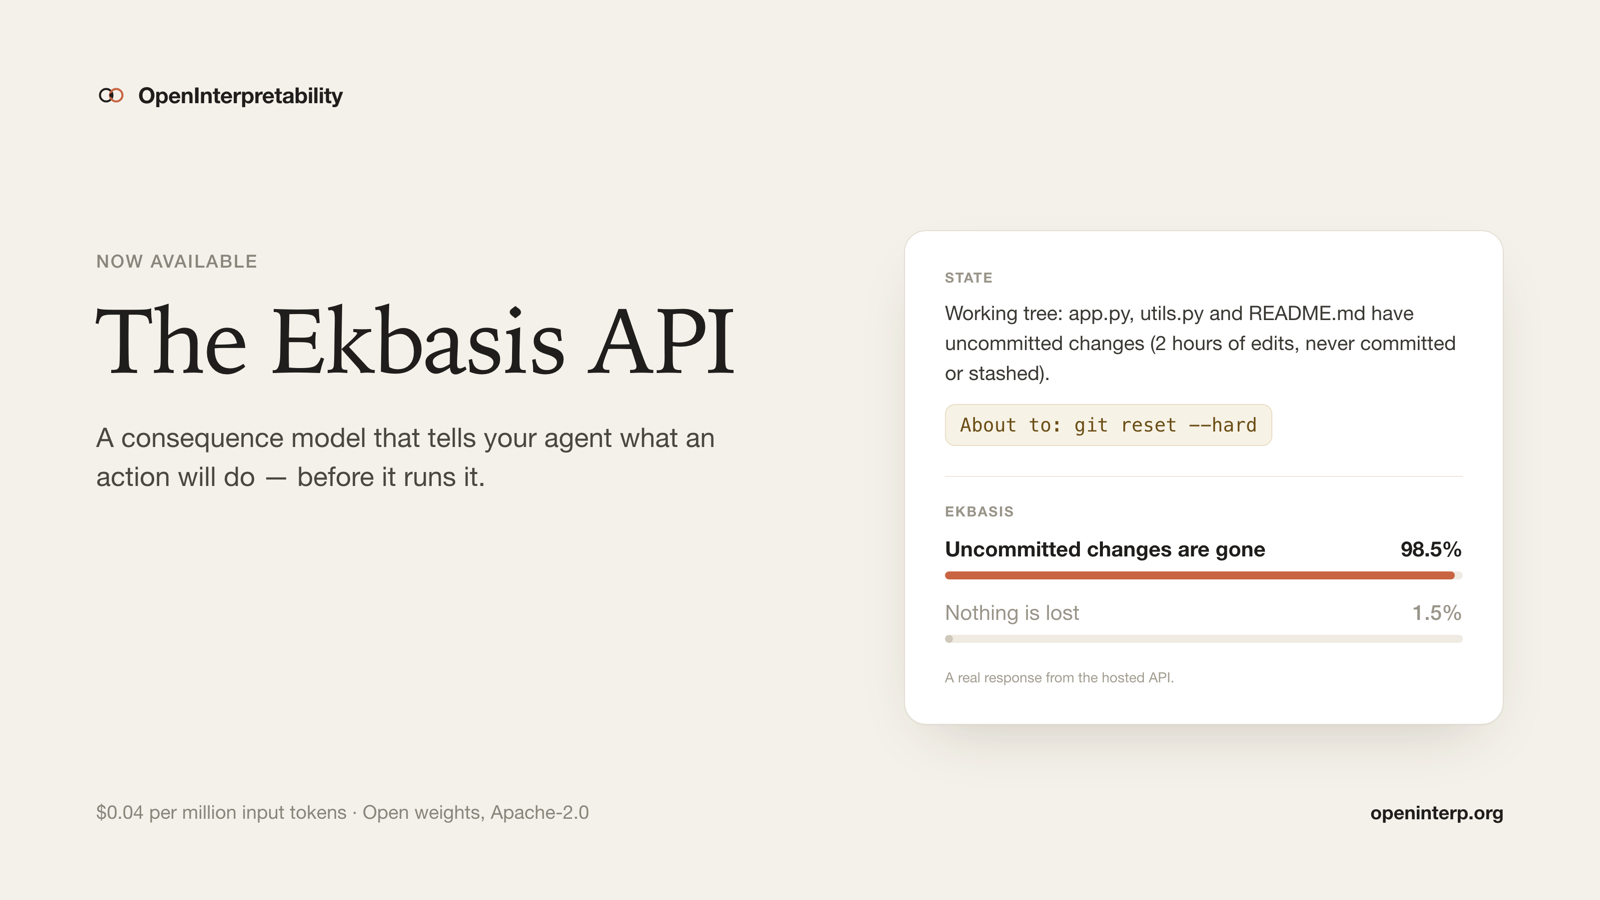
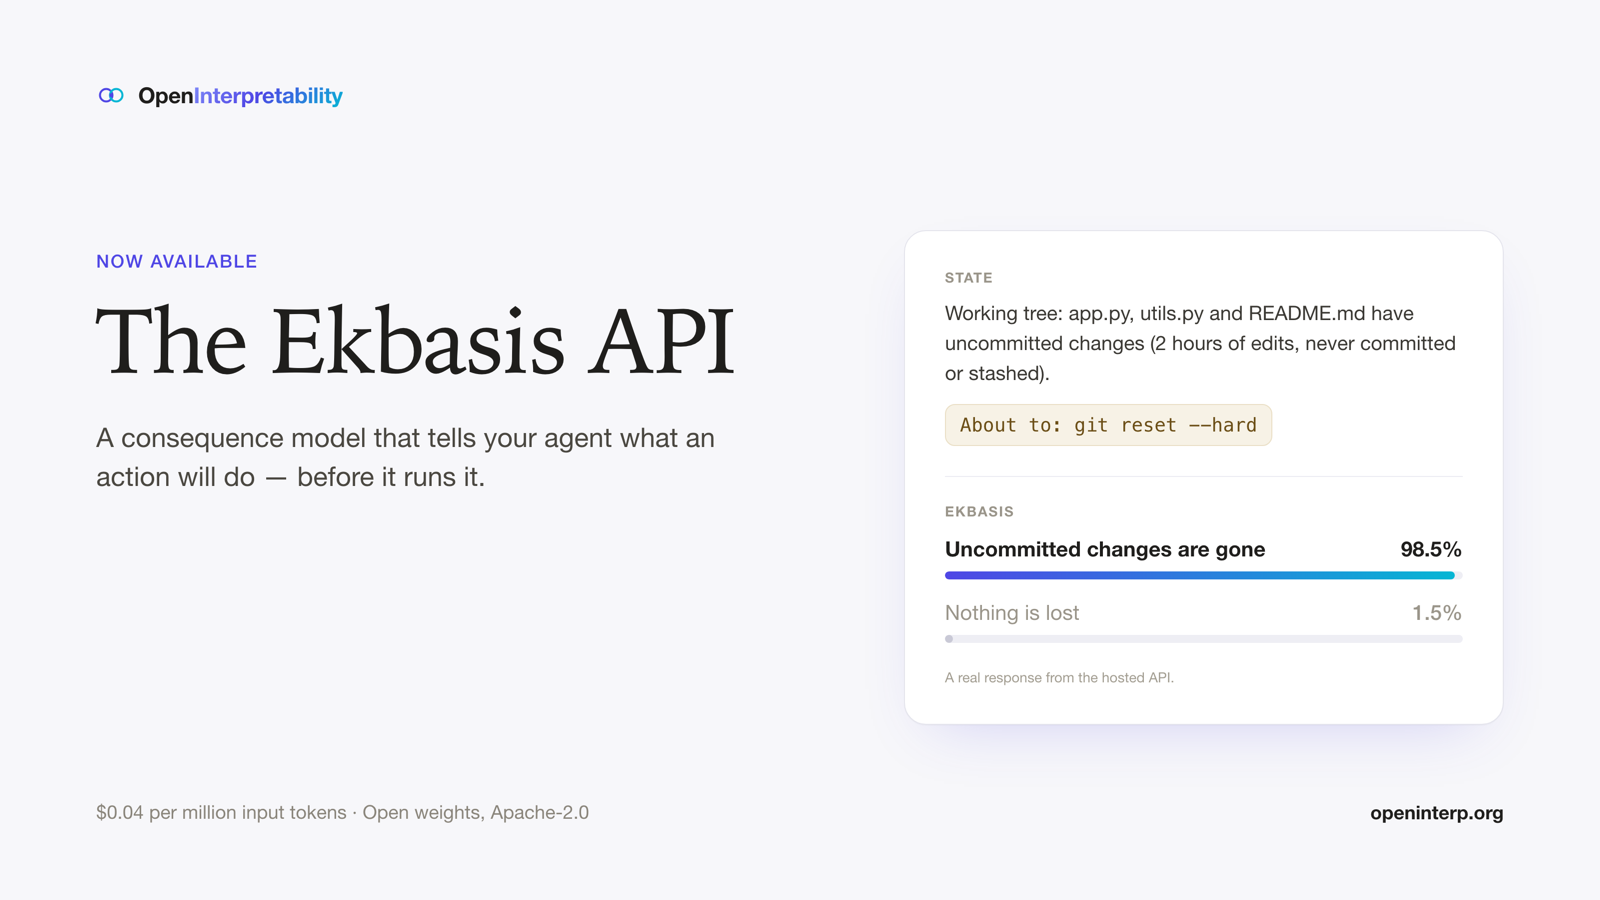
News: brand colors in the announcement figure and link preview

diff --git a/app/news/ekbasis-api/page.tsx b/app/news/ekbasis-api/page.tsx
@@ -57,7 +57,7 @@ export default function EkbasisApiAnnouncement() {
         </p>
         <div className="my-6 h-px bg-black/10 dark:bg-white/10" />
         <div className="flex justify-between text-[15px] font-semibold"><span>Uncommitted changes are gone</span><span className="tabular-nums">98.5%</span></div>
-        <div className="mt-2 h-1.5 rounded-full bg-black/[0.06] dark:bg-white/10"><div className="h-1.5 rounded-full bg-[#C96442]" style={{ width: '98.5%' }} /></div>
+        <div className="mt-2 h-1.5 rounded-full bg-black/[0.06] dark:bg-white/10"><div className="h-1.5 rounded-full bg-gradient-to-r from-brand-600 to-accent-500" style={{ width: '98.5%' }} /></div>
         <div className="mt-4 flex justify-between text-[15px] text-ink-900/50 dark:text-ink-50/50"><span>Nothing is lost</span><span className="tabular-nums">1.5%</span></div>
         <figcaption className="mt-6 text-xs text-ink-900/45 dark:text-ink-50/45">
           A real response from the hosted API: 135 input tokens, 0.19 seconds on the server.
